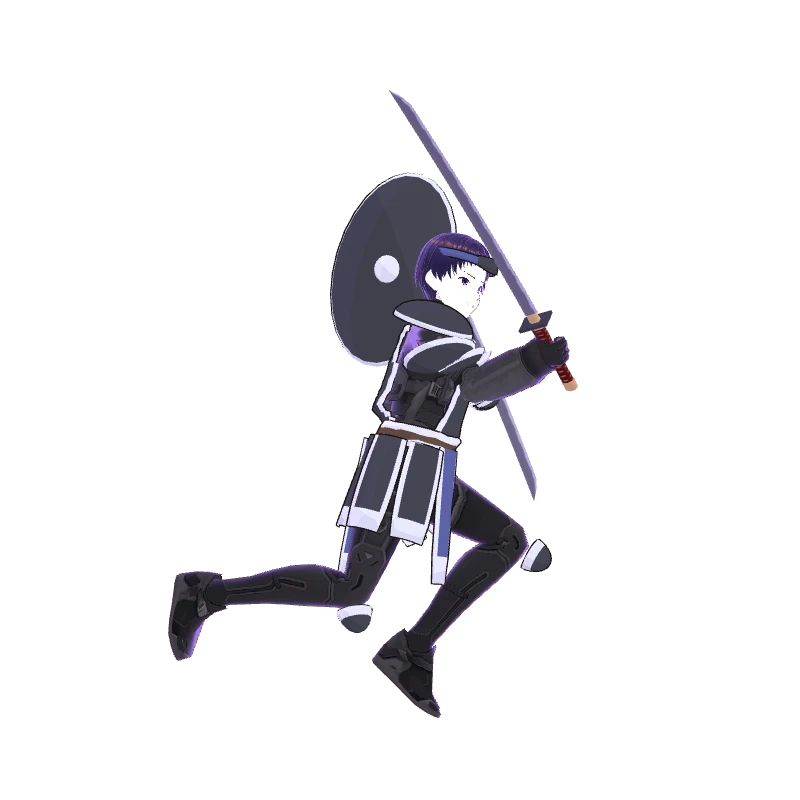
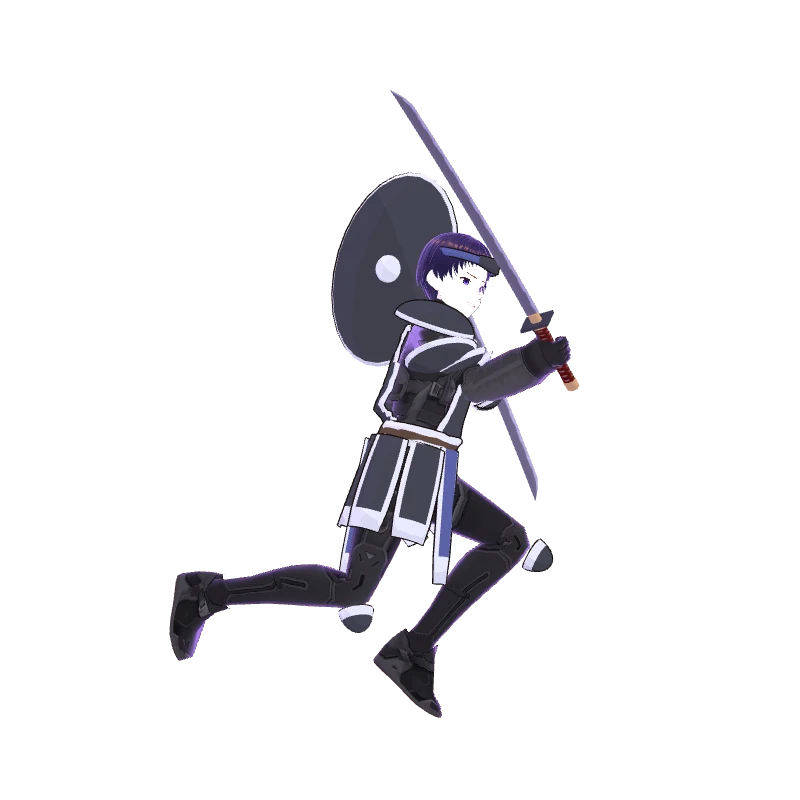
両手持ちの左腕が体や顔にめり込むのを直し、両手武器の間は盾を背中に背負う (v1.17.1)
- 左手の握り位置を柄の上で毎フレーム選ぶ: 武器ごとに握れる範囲(gripRange)の中から、届く・体や顔に入らない・肩に近い所。急に飛ばないよう滑らかに動かす
- 左肘を体の外側と下へ張る(内側に入って胸や顔にめり込まないように)
- 両手武器(大太刀・長槍・大槌・大戦斧・大鎌)を持つ間は、盾を左腕から外して背中に付け替える
- 決めポーズを撮り直し

diff --git a/src/vrmchar.js b/src/vrmchar.js
@@ -4,6 +4,7 @@ import { GLTFLoader } from '../vendor/addons/loaders/GLTFLoader.js';
 import { VRMLoaderPlugin, VRMUtils } from '../vendor/three-vrm.module.min.js';
 import { VRM_FILES } from './config.js';
 import { HEROES } from './data.js';
+import { updateArmor } from './armor.js';
 
 // ?vrmtest を付けて開くと、全武将を開発用サンプル(dev/sample.vrm)で表示
 const TEST = new URLSearchParams(location.search).has('vrmtest');
@@ -50,6 +51,7 @@ export async function loadVrm(id) {
 
 const _q = new THREE.Quaternion(), _p = new THREE.Vector3(), _v = new THREE.Vector3(), _w = new THREE.Vector3();
 const _f = new THREE.Vector3(), _g = new THREE.Vector3(), _x = new THREE.Vector3(), _y = new THREE.Vector3(), _m = new THREE.Matrix4();
+const _C1 = new THREE.Vector3(), _C2 = new THREE.Vector3();
 const _hq = new THREE.Quaternion(), _pq = new THREE.Quaternion(), _rq = new THREE.Quaternion();
 const _S = new THREE.Vector3(), _E = new THREE.Vector3(), _H = new THREE.Vector3(), _T = new THREE.Vector3(), _u = new THREE.Vector3(), _n = new THREE.Vector3(), _dq = new THREE.Quaternion(), _wq = new THREE.Quaternion();
 const CL = new THREE.Quaternion().setFromAxisAngle(new THREE.Vector3(0, 0, 1), -Math.PI / 2);   // 左腕: +X → 下向き
@@ -184,10 +186,11 @@ export class VrmBody {
     // 両手持ち: VRMの腕の長さで左手を柄に届かせる(元リグの角度を写すだけだと届かない)
     if (two) {
       this.wR.updateMatrixWorld(true);
-      this._reach(this.wR.localToWorld(_T.copy(this.model.grip)));
+      this._reach(this._leftGrip(dt));
       this._grip('leftHand', 'leftLowerArm', Q.handR, true);
       this.vrm.humanoid.update();
     }
+    updateArmor(this.vrm, this.model.two);   // 両手武器の間は盾を背中へ
   }
   // 表情: まばたきと、状態に合わせた顔(攻撃=怒り+口を開く、勝利=笑顔 など)。表情を持たないVRMでは何もしない
   _face(dt, rig) {
@@ -212,6 +215,31 @@ export class VrmBody {
     }
   }
   // 左腕の2関節IK: 肩→肘→手首で目標点に手を届かせる。肘は今の向き(元リグの肘)を保つ
+  // 左手で握る柄の位置を選ぶ: 届く範囲で、体や顔にめり込まず、肩から近い所。急に飛ばないよう滑らかに動かす
+  _leftGrip(dt) {
+    const g0 = this.model.grip.y, R = this.model.gripRange || [g0, g0], N = this.N;
+    if (!N.leftUpperArm || !N.hips || !N.head) return this.wR.localToWorld(_T.copy(this.model.grip));
+    N.leftUpperArm.getWorldPosition(_S); N.hips.getWorldPosition(_C1); N.head.getWorldPosition(_C2);
+    const torso = _C2.distanceTo(_C1) || 0.6, rb = torso * 0.36;
+    _C2.addScaledVector(_v.copy(_C2).sub(_C1).normalize(), torso * 0.3);                 // 頭のてっぺんまで
+    if (!this._armLen) {                                                                  // 腕の長さ(肩→肘→拳)
+      N.leftLowerArm.getWorldPosition(_E); N.leftHand.getWorldPosition(_H);
+      this._armLen = _S.distanceTo(_E) + _E.distanceTo(_H) * 1.25;
+    }
+    let best = Infinity, bt = g0;
+    for (let i = 0; i <= 16; i++) {
+      const t = R[0] + (R[1] - R[0]) * i / 16;
+      if (R[1] - R[0] > 0.2 && Math.abs(t) < 0.15) continue;                               // 右手と重ならない
+      const P = this.wR.localToWorld(_T.set(0, t, 0)), dS = P.distanceTo(_S);
+      let sc = Math.max(0, dS - this._armLen * 0.95) * 12 + dS * 0.4 + Math.abs(t - g0) * 0.25;
+      _v.copy(_C2).sub(_C1); const k = THREE.MathUtils.clamp(_w.copy(P).sub(_C1).dot(_v) / _v.lengthSq(), 0, 1);
+      const dc = P.distanceTo(_w.copy(_C1).addScaledVector(_v, k));
+      if (dc < rb) sc += (rb - dc) * 25;                                                  // 体・顔の中は避ける
+      if (sc < best) { best = sc; bt = t; }
+    }
+    this._gt = this._gt === undefined ? bt : this._gt + (bt - this._gt) * (1 - Math.exp(-(dt || 0.016) * 14));
+    return this.wR.localToWorld(_T.set(0, this._gt, 0));
+  }
   _reach(T) {
     const N = this.N, up = N.leftUpperArm, lo = N.leftLowerArm, hd = N.leftHand;
     if (!up || !lo || !hd) return;
@@ -222,8 +250,11 @@ export class VrmBody {
     const a = _S.distanceTo(_E), b = _E.distanceTo(_H) + off;
     const dist = _S.distanceTo(T); if (dist < 1e-4) return;
     const d = Math.min(dist, (a + b) * 0.999), u = _u.copy(T).sub(_S).normalize();
-    // 肘を出す向き: 今の肘の位置から、肩→目標の線に直交する成分(なければ下)
-    _n.copy(_E).sub(_S); _n.addScaledVector(u, -_n.dot(u));
+    // 肘を出す向き: 体の外側と下へ張る(内側に入ると腕が胸や顔にめり込む)。今の肘の向きも少し残す
+    const ch = N.upperChest || N.chest || N.spine; ch.getWorldPosition(_C1);
+    _C2.copy(_S).sub(_C1); _C2.y = 0; if (_C2.lengthSq() < 1e-8) _C2.set(1, 0, 0); _C2.normalize();
+    _n.copy(_E).sub(_S).normalize().multiplyScalar(0.3).add(_C2).add(_v.set(0, -0.9, 0));
+    _n.addScaledVector(u, -_n.dot(u));
     if (_n.lengthSq() < 1e-8) _n.set(0, -1, 0).addScaledVector(u, -u.y);
     _n.normalize();
     const cosA = THREE.MathUtils.clamp((a * a + d * d - b * b) / (2 * a * d), -1, 1), sinA = Math.sqrt(1 - cosA * cosA);

diff --git a/src/armor.js b/src/armor.js
@@ -97,7 +97,37 @@ export async function wearArmor(vrm, hero, equip) {
     const line = new THREE.SkinnedMesh(A.geometry, outlineMat());
     line.name = 'armor_line'; line.frustumCulled = false;
     mesh.add(line); line.bind(mesh.skeleton, host.bindMatrix);
-    worn[slot] = { set, mesh };
+    worn[slot] = { set, mesh, line };
+    if (slot === 'shield') prepShieldBack(vrm, worn[slot], A, ent, tab, host);
   }));
+}
+
+// 盾を背中に背負う: 両手武器を持つ間は、左腕ではなく背中(胸の骨)に付け替える
+const _m = new THREE.Matrix4();
+function prepShieldBack(vrm, W, A, ent, tab, host) {
+  const uc = tab.get('J_Bip_C_UpperChest') || tab.get('J_Bip_C_Chest'); if (!uc) return;
+  A.geometry.computeBoundingBox();
+  const c0 = A.geometry.boundingBox.getCenter(new THREE.Vector3());
+  const ucPos = new THREE.Vector3().setFromMatrixPosition(uc.inv.clone().invert());       // 胸の骨(基準姿勢)
+  const c1 = ucPos.add(new THREE.Vector3(0, -0.06, -0.17));                              // 背中の真ん中(VRM は +Z が正面)
+  // 盾の面(+Y を向いた椀)を背中側(-Z)へ向け、長い方を縦にする
+  const K = new THREE.Matrix4().makeTranslation(c1.x, c1.y, c1.z)
+    .multiply(new THREE.Matrix4().makeRotationZ(Math.PI / 2)).multiply(new THREE.Matrix4().makeRotationX(-Math.PI / 2))
+    .multiply(new THREE.Matrix4().makeTranslation(-c0.x, -c0.y, -c0.z));
+  const bind = host.bindMatrix, Kb = bind.clone().multiply(K).multiply(host.bindMatrixInverse);
+  const B = new THREE.Bone(); B.name = 'shield_back'; B.matrixAutoUpdate = false;
+  W.armSkel = W.mesh.skeleton;
+  W.backSkel = new THREE.Skeleton(ent.map(() => B), ent.map(() => new THREE.Matrix4()));
+  W.back = { B, uc, Kb, on: false };
+}
+// 毎フレーム呼ぶ: back=true で背中、false で左腕
+export function updateArmor(vrm, back) {
+  const W = (st(vrm).armor || {}).shield; if (!W || !W.back) return;
+  const S = W.back, bind = W.mesh.bindMatrix;
+  if (S.on !== !!back) {
+    S.on = !!back; const sk = back ? W.backSkel : W.armSkel;
+    W.mesh.bind(sk, bind); if (W.line) W.line.bind(sk, bind);
+  }
+  if (back) { S.uc.bone.updateWorldMatrix(true, false); S.B.matrixWorld.multiplyMatrices(S.uc.bone.matrixWorld, _m.copy(S.uc.inv)).multiply(S.Kb); }
 }
 export function setArmor(vrm, hero, equip) { st(vrm).armorWant = { ...(equip || {}) }; return wearArmor(vrm, hero, st(vrm).armorWant); }

diff --git a/src/models.js b/src/models.js
@@ -388,7 +388,9 @@ export function buildHero(look, wtype, tier = 0) {
   J.root.scale.setScalar(L.scale);
 
   return {
-    root: J.root, J, M, dang, scale: L.scale, wtype, two: W.two, dual: W.dual, armor: L.armor || '', spiky: !!L.vrmSpiky, pal: P, motion: L.motion || 1, run: RUNS[wtype] || RUNS.sword, oneRun: !!(RUNS[wtype] && RUNS[wtype].one),   // oneRun: 走る時は片手で持つ
+    root: J.root, J, M, dang, scale: L.scale, wtype, two: W.two, dual: W.dual, armor: L.armor || '', spiky: !!L.vrmSpiky, pal: P, motion: L.motion || 1,
+    // 両手持ちで左手が握れる柄の範囲(右手からの距離, m)。この中で体にめり込まない位置を毎フレーム選ぶ
+    gripRange: { sword: [-0.19, -0.08], spear: [-0.75, 0.75], hammer: [-0.42, 0.6], axe: [-0.48, 0.6], scythe: [-0.72, 0.75] }[wtype] || null, run: RUNS[wtype] || RUNS.sword, oneRun: !!(RUNS[wtype] && RUNS[wtype].one),   // oneRun: 走る時は片手で持つ
     tip: new THREE.Vector3(...W.tip), base: new THREE.Vector3(...W.base), grip: new THREE.Vector3(...W.grip),
     rest: { ...RESTS[wtype], ...REST_COMMON }, idle: IDLES[wtype], height: 1.95 * L.scale, glow: P.glow,
     wMeshes,

diff --git a/sw.js b/sw.js
@@ -1,6 +1,6 @@
 // サービスワーカー: 全ファイルをキャッシュしてオフラインでも遊べるようにする
 // ※ ゲームを更新したら CACHE の番号を上げてください(古いキャッシュが破棄されます)
-const CACHE = 'seiga-v1.17.0';
+const CACHE = 'seiga-v1.17.1';
 const FILES = [
   './', 'index.html', 'manifest.webmanifest', 'css/style.css', 'vendor/three.module.min.js',
   'icons/icon-192.png', 'icons/icon-512.png', 'icons/icon-maskable-512.png', 'icons/apple-touch-icon.png',

diff --git a/src/config.js b/src/config.js
@@ -4,7 +4,7 @@
 // 空のままでも、ゲーム内「設定」画面から個別にURLを入力できます。
 export const CLOUD_URL = 'https://script.google.com/macros/s/AKfycbwIXAdAaQbAvjuTPs3f40_3I8KxJB3mKbrFkAzfM-IuFDj_kmxqeDuisBGuqbjSZOJp1Q/exec';
 
-export const VERSION = '1.17.0';
+export const VERSION = '1.17.1';
 
 // VRoid のキャラ(VRM)。ファイルを vrm/ フォルダに入れ、武将ID: パス を書くと差し替わります
 // 武将ID: reiga / setsuna / raika / gandou / fuuka / yomi
